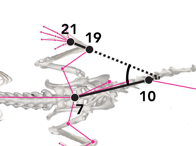
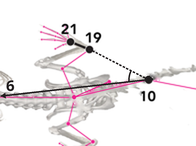
rewrite readouts README for the docs site, align angle docs with code
- docs-site wording; keep logo and title header
- angle vectors and signs described as computed in ANGLE_FEATURES
- add interpretation for plantar and postural readouts
- redraw paw-length thumbnails (heel to distal 3rd digit) and paw-angle
  thumbnails (body vector tail base to xyphoid)
- fixed thumbnail width so all postural images render at the same size

Changed region(s): [[0.0, 0.3288, 0.8265, 0.7945], [0.7041, 0.6301, 0.7347, 0.6575]]

diff --git a/README.md b/README.md
@@ -1,6 +1,4 @@
-<a id="readme-top"></a>
-
-<h1 align="center">BLACKBOX ANALYSIS READOUTS
+<h1 align="center">BLACKBOX POSTURAL AND WEIGHT-BEARING ANALYSIS
 <img src="readme_assets/images/BBB_logo.png" alt="Blackbox Bio Logo" height="30" align="absmiddle">
 </h1>
 
@@ -13,44 +11,26 @@
 </p>
 
 ***
-<!-- TABLE OF CONTENTS -->
-<details open>
-  <summary>Table of Contents</summary>
-  <ol>
-    <li><a href="#overview">Overview</a></li>
-    <li><a href="#analysis-pipeline">Analysis Pipeline</a></li>
-    <li><a href="#deeplabcut-body-part-labels">DeepLabCut Body Part Labels</a></li>
-    <li><a href="#global-readouts">Global Readouts</a></li>
-    <li><a href="#behavioral-readouts">Behavioral Readouts</a></li>
-    <li><a href="#anatomical-readouts--definitions">Anatomical Readouts & Definitions</a></li>
-    <li><a href="#behavioral-contexts">Behavioral contexts</a></li>
-    <li><a href="#plantar-readouts">Plantar Readouts</a></li>
-    <li><a href="#postural-readouts">Postural Readouts</a></li>
-    <li><a href="#tracking-quality-readouts">Tracking Quality Readouts</a></li>
-  </ol>
-</details>
 
-***
+When Palmreader analyzes an experiment, it writes a summary spreadsheet (`summary.csv`) with one row per recording, or per time bin when binning is used. This page defines every column in that spreadsheet: what is measured, which body part labels it uses, and how it is calculated. Readout names on this page match the column headers exactly.
 
-## Overview
+For setting up the Blackbox and recording experiments, see the Blackbox Operating Manual.
 
-This repository contains the analysis code that Palmreader runs on Blackbox recordings, and this document defines every readout it produces. Readout names below match the column headers of the summary spreadsheet. For operating the Blackbox instrument and recording experiments, see the Blackbox Operating Manual.
+> **NOTE:** New readouts are added regularly. If your summary contains a column that is not listed here, it was added in a newer Palmreader version than this page describes.
 
-New behavioral outputs are frequently added. Below is a non-exhaustive list of DeepLabCut pose labels and behavioral readouts that can be generated from Palmreader.
+## About the Analysis
 
-<p align="right">(<a href="#readme-top">back to top</a>)</p>
+Palmreader analyzes each recording in three steps:
 
-## Analysis Pipeline
+1. **Pose tracking.** DeepLabCut labels the animal's body parts in every frame of the transmitted-light (`TRANS`) video. See [Body Part Labels](#body-part-labels).
+2. **Feature extraction.** Palmreader combines the body part labels with the Intellitouch™ (`FTIR`) video to compute per-frame features: paw luminance, print size and pressure index, distances and angles between body parts, and behavior classifications. Per-frame features are saved for each recording in `features.h5`.
+3. **Summary.** The per-frame features are averaged, summed or counted over the recording (or time bin) to produce one row of `summary.csv`.
 
-Each recording is analyzed in three steps:
+Relative and ratio readouts are reported with 4 decimal places. All other readouts are reported with 2 decimal places.
 
-1. **Pose tracking:** DeepLabCut labels the body parts of the animal in every frame of the transmitted-light ("TRANS") video (see [DeepLabCut Body Part Labels](#deeplabcut-body-part-labels)).
-2. **Feature extraction:** per-frame features are computed from the pose labels and the Intellitouch™ ("FTIR") video, including paw luminance, print size and pressure index, body part distances and angles, and per-frame behavior classifications. These are saved for each recording in `features.h5`.
-3. **Summary:** per-frame features are summarized over each recording, or each time bin, into one row of the summary spreadsheet (`summary.csv`).
+## Body Part Labels
 
-<p align="right">(<a href="#readme-top">back to top</a>)</p>
-
-## DeepLabCut Body Part Labels
+Palmreader tracks 57 body part labels. The numbers in parentheses throughout this page refer to the label numbers below.
 
 | Skeleton | Rodent |
 |---|---|
@@ -96,171 +76,150 @@ Each recording is analyzed in three steps:
 | 28 | RFP distal 3rd digit | 57 | LHP distal 5th digit |
 | 29 | RFP distal 4th digit | | |
 
-To generate body part labels, Palmreader uses DeepLabCut (version 3.0.2)<sup>1,2</sup>, trained by labeling video frames of Blackbox-generated videos of mice and rats of various strains and colors. **When publishing Blackbox data scored using the Palmreader software suite, please cite the following source literature describing DeepLabCut<sup>1</sup> and the DLC Python package<sup>2</sup>:**
+The labels are generated with DeepLabCut (version 3.0.2), trained on Blackbox recordings of mice and rats of various strains and coat colors.
 
-1. Mathis A, et al.., Nature Neuroscience. 2018 doi: 10.1038/s41593-018-0209-y
-2. Nath T, Mathis A, et al., Nature Protocols. 2019 doi: 10.1038/s41596-019-0176-0
+> **NOTE:** When you publish Blackbox data analyzed with Palmreader, please cite DeepLabCut and the DeepLabCut Python package:
+>
+> 1. Mathis A, et al. Nature Neuroscience. 2018. doi: 10.1038/s41593-018-0209-y
+> 2. Nath T, Mathis A, et al. Nature Protocols. 2019. doi: 10.1038/s41596-019-0176-0
 
-<p align="right">(<a href="#readme-top">back to top</a>)</p>
+## Recording Readouts
 
-## Global Readouts
+**`total recording_time (min)`** is the length of the analyzed recording, starting from the first frame in which the animal is detected.
 
-**total recording_time (min)** is the duration of the recording analyzed, starting from the first frame in which the animal is detected.
+**`PV: bin start-end (min)`** is the time window of the recording that the row summarizes.
 
-**PV: bin start-end (min)** is the time window within the recording that each summary row is calculated from.
+**`bin duration (min)`** is the length of that time window.
 
-**bin duration (min)** is the total duration (in minutes) for the recording that each of the summary readout rows is calculated from.
+**`distance_traveled (pixel)`** is the total distance the animal moves: the sum of all frame-to-frame changes in the position of the body centroid. The body centroid is the average position of the sacrum (7), xyphoid (6), sternal notch (5), neck (4), left and right femur (16, 17) and left and right elbow (12, 13), weighted by tracking confidence.
 
-**distance_traveled (pixel)** represents the total linear distance moved by the animal. It is calculated by summing all frame-to-frame changes in location of the animal's body centroid across all video frames. The body centroid is the tracking-confidence-weighted average position of the sacrum (7), xyphoid (6), sternal notch (5), neck (4), left and right femur (16, 17) and left and right elbow (12, 13) labels.
+> **NOTE:** For mouse recordings on Blackbox R1, Camera A, 1 pixel ≈ 0.3 mm.
 
-Distance unit conversion calculator: (Blackbox R1, Camera A, mouse recording): 1 pixel = 0.3 mm
+**`time_spent_in_center (seconds)`** is the time the body centroid spends in the center square of a 3 × 3 grid over the field of view.
 
-**time_spent_in_center (seconds)** is the time the body centroid spends in the center square of a 3 x 3 grid dividing the field of view.
+## Behavior Readouts
 
-<p align="right">(<a href="#readme-top">back to top</a>)</p>
+Palmreader classifies every frame into the behaviors below using the body part labels. Each behavior is reported as time spent. Locomotion and not moving are also used as behavioral contexts for the plantar readouts (see [Behavioral Contexts](#behavioral-contexts)).
 
-## Behavioral Readouts
+All thresholds are defined at 45 frames per second and scaled automatically for other frame rates.
 
-Palmreader classifies each video frame into the behaviors below, using the DeepLabCut body part labels. These classifications are reported as time spent, and are also used as the behavioral contexts for the plantar readouts (see [Behavioral contexts](#behavioral-contexts)).
+**`time_spent_locomotion (seconds)`** is the time the animal spends walking. A frame counts as locomotion when the body centroid is more than 20 pixels from its average position over the preceding 0.5 seconds, and the animal stays above this threshold for at least 1 second.
 
-**time_spent_locomotion (seconds)**
-The time the animal spends walking. A frame is classified as locomotion when the body centroid is more than 20 pixels from its average location over the preceding 0.5 seconds (threshold defined at 45 frames per second and scaled for other frame rates), and the animal stays above this threshold for at least 1 second.
+**`time_spent_not_moving (seconds)`** is the time the animal spends still. A frame counts as not moving when the sacrum (7), xyphoid (6), sternal notch (5), neck (4), nose (1) and all four paws (14, 15, 20, 21) each move less than 0.5 pixels per frame, for at least 0.5 seconds.
 
-**time_spent_not_moving (seconds)**
-The time the animal spends still. A frame is classified as not moving when all of the following labels move less than 0.5 pixels per frame (defined at 45 frames per second and scaled for other frame rates): sacrum (7), xyphoid (6), sternal notch (5), neck (4), nose (1) and all four paws (14, 15, 20, 21). The animal must stay still for at least 0.5 seconds.
-
-**time_spent_left_turn (seconds)** and **time_spent_right_turn (seconds)**
-The time the animal spends turning its body to the left or right. A turn is detected when the body axis (from tail base (10) to nose (1)) rotates faster than 45 degrees per second for at least 0.4 seconds.
-
-<p align="right">(<a href="#readme-top">back to top</a>)</p>
-
-## Anatomical Readouts & Definitions
-
-**Paw:**
-The four paws are named [LHP: left hindpaw, RHP: right hindpaw, LFP: left forepaw, and RFP: right forepaw] according to their anatomical positions.
-
-**Paw print size:**
-The paw print size (pixel area) measures the area of the contact of a given paw in each time frame. The pixel area is the number of pixels in the FTIR signal induced by a given paw above a pixel intensity threshold.
-
-**Paw luminance:**
-The paw luminance (pixel intensity) measures the sum of all pixel intensity signals induced by a given paw in each time frame.
-
-**Pressure Index:**
-The paw pressure index (pixel intensity/area) measures the "pressure" of a given paw in each time frame, calculated as the paw luminance divided by the paw print size.
-
-> **Formulary for luminance readout labels (below):**
-> `{paw}` is a placeholder that can take one of the four paws (e.g., LHP for left hind paw).
-> `{measure}` can take one of the three measures [print_size, luminance, pressure-index].
-> `{context}` can take one of the behavioral contexts [none (whole recording), locomoting, not_moving]; see [Behavioral contexts](#behavioral-contexts).
-
-**Average {paw} {measure}:**
-The average {measure} of each {paw} across the time. Per-paw averages are not reported as separate readouts; they can be recovered as the overall {measure} multiplied by the relative {paw} {measure}.
-
-**Overall {measure}:**
-The overall {measure} is the sum of the average {measure} of all four paws.
-
-**Relative {paw} {measure}:**
-The average {measure} of each {paw} normalized by the overall {measure}. The four relative values of a {measure} sum to 1.
-
-- **Ratio {paw 1} {paw 2} {measure}:**
-  Ratios are calculated from averages: the average {paw 1} {measure} divided by the average {paw 2} {measure}. Hind paw ratios are reported in both directions, right over left (r/l) and left over right (l/r), so the injured paw can be placed in the numerator.
-- For front-to-hind ratios, the {front} is the sum of both front paws, and the {hind} is the sum of both hind paws.
-- For standing measures, the animal is classified as standing if neither of the animal's front paws are contacting the floor.
-- **{paw} lifted time:**
-  The lifted time (seconds) of each {paw} is calculated by summing up the time when the given {paw} is not contacting the floor.
-
-Relative and ratio readouts are reported with 4 decimal places; all other readouts are reported with 2 decimal places.
-
-<p align="right">(<a href="#readme-top">back to top</a>)</p>
-
-## Behavioral contexts
-
-In addition to the whole recording, the overall, relative and hind paw ratio readouts are also calculated within two behavioral contexts, using only the video frames classified as that behavior (see [Behavioral Readouts](#behavioral-readouts)):
-
-- **locomoting:** frames in which the animal is walking. Readout names contain `_locomoting_`.
-- **not_moving:** frames in which the animal is still. Readout names contain `_not_moving_`.
-
-Weight bearing during locomotion and at rest can differ after injury. For example, an animal may guard an injured paw while resting but load it more evenly while walking. If an animal spends little or no time in a behavior during a recording or time bin, readouts for that context are based on few frames and are less reliable, or are left empty if the behavior does not occur.
-
-<p align="right">(<a href="#readme-top">back to top</a>)</p>
+**`time_spent_left_turn (seconds)`** and **`time_spent_right_turn (seconds)`** are the time the animal spends turning its body left or right. A turn is detected when the body axis, from tail base (10) to nose (1), rotates faster than 45 degrees per second for at least 0.4 seconds.
 
 ## Plantar Readouts
 
-**average_overall_print_size (pixel area)** represents the total paw contact area of the animal: the sum of the average print size of all four paws across all timepoints.
+Plantar readouts measure how each paw contacts the floor, using the Intellitouch™ (FTIR) signal. They are the main readouts for weight bearing and paw guarding.
 
-**average_overall_luminance (pixel intensity)** is the sum of the average luminance of all four paws.
+### Plantar Measures
 
-**average_overall_pressure-index (pixel intensity/area)** is the sum of the average pressure index of all four paws.
+Each plantar readout is based on one of three per-frame measures, computed for each paw:
 
-The plantar readouts below are reported for each {measure} [print_size, luminance, pressure-index]. Units: print_size in pixel area, luminance in pixel intensity, pressure-index in pixel intensity/area.
-
-| Readout | Contexts reported | Description |
+| Measure | Unit | Definition |
 |---|---|---|
-| average_overall_{measure} | whole recording, locomoting, not_moving | Sum of the average {measure} of all four paws |
-| relative_{paw}_{measure} (ratio) | whole recording, locomoting, not_moving | Average {measure} of {paw} divided by the overall {measure} |
-| average_hind_paw_{measure}_ratio (r/l) and (l/r) | whole recording, standing, locomoting, not_moving | Average right hind paw {measure} divided by the average left hind paw {measure} (r/l), or the reverse (l/r) |
-| average_front_to_hind_paw_{measure}_ratio | whole recording | Sum of the average front paw {measure} divided by the sum of the average hind paw {measure} |
+| `print_size` | pixel area | Contact area: the number of FTIR pixels from the paw above the intensity threshold |
+| `luminance` | pixel intensity | Total contact signal: the sum of the intensity of all FTIR pixels from the paw |
+| `pressure-index` | pixel intensity/area | Contact signal per unit area: `luminance` divided by `print_size` |
 
-Context-specific readouts insert the context name after `average_` or `relative_`. For example:
+`luminance` increases both with how hard the paw presses and with how much of the paw touches the floor. `pressure-index` removes the effect of contact area. A lifted paw contributes 0 to `print_size` and `luminance` in that frame.
 
-- average_overall_luminance (pixel intensity)
-- average_not_moving_overall_luminance (pixel intensity)
-- relative_LHP_luminance (ratio)
-- relative_locomoting_LHP_luminance (ratio)
-- average_hind_paw_luminance_ratio (l/r)
-- average_standing_hind_paw_luminance_ratio (l/r)
-- average_locomoting_hind_paw_luminance_ratio (l/r)
-- average_not_moving_hind_paw_luminance_ratio (l/r)
+The paws are named by anatomical position: **LHP** (left hind paw), **RHP** (right hind paw), **LFP** (left fore paw) and **RFP** (right fore paw).
 
-Paw lifted time readouts:
+### Readout Definitions
 
-- LHP_paw_lifted_time (seconds)
-- RHP_paw_lifted_time (seconds)
-- LFP_paw_lifted_time (seconds)
-- RFP_paw_lifted_time (seconds)
-- both_front_paws_lifted (seconds)
+In the readout names below, `{measure}` is one of the three measures, `{paw}` is one of the four paws, and the unit follows the measure.
 
-<p align="right">(<a href="#readme-top">back to top</a>)</p>
+**`average_overall_{measure}`** is the sum of the average `{measure}` of all four paws. For example, `average_overall_print_size (pixel area)` is the animal's total paw contact area.
+
+**`relative_{paw}_{measure} (ratio)`** is the share of the overall `{measure}` carried by one paw: the paw's average `{measure}` divided by `average_overall_{measure}`. The four relative values of a measure sum to 1.
+
+**`average_hind_paw_{measure}_ratio (r/l)`** and **`(l/r)`** compare the two hind paws: the average RHP `{measure}` divided by the average LHP `{measure}` (r/l), or the reverse (l/r). Both directions are reported so you can always put the injured paw in the numerator.
+
+**`average_front_to_hind_paw_{measure}_ratio`** is the summed average `{measure}` of both front paws divided by the summed average of both hind paws.
+
+**`average_standing_hind_paw_{measure}_ratio (r/l)`** and **`(l/r)`** are the hind paw ratios calculated only over frames in which the animal is standing on its hind paws, that is, neither front paw is touching the floor.
+
+> **NOTE:** All ratios are ratios of averages: each paw is averaged over the frames first, then the averages are divided. Per-paw averages are not reported as separate columns. To recover one, multiply the overall readout by the paw's relative readout.
+
+### Paw Lifted Time
+
+**`{paw}_paw_lifted_time (seconds)`** is the total time the paw is not touching the floor. It is reported for `LHP`, `RHP`, `LFP` and `RFP`.
+
+**`both_front_paws_lifted (seconds)`** is the total time neither front paw is touching the floor.
+
+### Interpreting Plantar Readouts
+
+- **Weight bearing on an injured paw.** Use the injured paw's `relative_{paw}_{measure} (ratio)`, or the hind paw ratio with the injured paw on top (for a left injury, `(l/r)`). A hind paw ratio below 1, or a lower relative value than in controls or at baseline, means the animal puts less weight on the injured paw. Ratios are easier to compare between animals than raw `luminance`, which also depends on body weight.
+- **`luminance` or `pressure-index`.** `luminance` drops both when the animal presses more lightly and when it touches the floor with less of the paw. `pressure-index` follows only how hard it presses, and can be less noisy between recordings.
+- **Guarding.** A longer `{paw}_paw_lifted_time (seconds)` for the injured paw than for the opposite paw indicates the animal is keeping the injured paw off the floor.
+- **Rearing.** `both_front_paws_lifted (seconds)` is the time spent rearing or standing on the hind paws.
+
+### Behavioral Contexts
+
+The overall, relative and hind paw ratio readouts are calculated over the whole recording and again within two behavioral contexts, using only the frames classified as that behavior (see [Behavior Readouts](#behavior-readouts)). The context name follows `average_` or `relative_` in the readout name:
+
+| Context | Frames used | Example readouts |
+|---|---|---|
+| whole recording | all frames | `average_overall_luminance (pixel intensity)`<br>`relative_LHP_luminance (ratio)`<br>`average_hind_paw_luminance_ratio (l/r)` |
+| locomoting | frames in which the animal is walking | `average_locomoting_overall_luminance (pixel intensity)`<br>`relative_locomoting_LHP_luminance (ratio)`<br>`average_locomoting_hind_paw_luminance_ratio (l/r)` |
+| not moving | frames in which the animal is still | `average_not_moving_overall_luminance (pixel intensity)`<br>`relative_not_moving_LHP_luminance (ratio)`<br>`average_not_moving_hind_paw_luminance_ratio (l/r)` |
+
+Weight bearing while walking and while at rest can change differently after an injury. For example, an animal may guard an injured paw while resting but load it more evenly while walking.
+
+> **NOTE:** Context readouts are only as reliable as the number of frames behind them. If an animal spends little time in a behavior during a recording or time bin, its readouts for that context are based on few frames. If the behavior does not occur at all, those readouts are left empty. Check `time_spent_locomotion (seconds)` and `time_spent_not_moving (seconds)` before interpreting context readouts.
 
 ## Postural Readouts
 
-| | |
-|---|---|
-| ![femoral_distance](readme_assets/images/readouts/femoral_distance.png) | **femur_width** (pixel)<br>The average pixel distance between the left femur (17) and right femur (16) across all time points. |
-| ![heel_distance](readme_assets/images/readouts/heel_distance.png) | **heel_distance** (pixel)<br>The average pixel distance between the left (19) and right (18) heels across all time points. |
-| ![hind_paws_distance](readme_assets/images/readouts/hind_paws_distance.png) | **hind_paws_distance** (pixel)<br>The average pixel distance between the left (21) and right (20) hind paws across all timepoints. |
-| ![elbow_distance](readme_assets/images/readouts/elbow_distance.png) | **elbow_width** (pixel)<br>The average pixel distance between the left (13) and right (12) elbow joints across all timepoints. |
-| ![front_paws_distance](readme_assets/images/readouts/front_paws_distance.png) | **front_paws_distance** (pixel)<br>The average pixel distance between the left (15) and right (14) front paws across all timepoints. |
-| ![cheek_distance](readme_assets/images/readouts/cheek_distance.png) | **cheek_distance** (pixel)<br>The average pixel distance between the left (3) and right (2) cheeks across all timepoints. |
-| ![tailbase_tailtip_distance](readme_assets/images/readouts/tailbase_tailtip_distance.png) | **tailbase_tailtip_distance** (pixel)<br>The average pixel distance between the tailbase (10) and the tailtip (11) across all timepoints. |
-| ![sacral_tailbase_distance](readme_assets/images/readouts/sacral_tailbase_distance.png) | **sacrum_tailbase_distance** (pixel)<br>The average pixel distance between the sacrum (7) and the tailbase (10) labels across all timepoints. |
-| ![sacral_xyphoid_distance](readme_assets/images/readouts/sacral_xyphoid_distance.png) | **sacrum_xyphoid_distance** (pixel)<br>The average pixel distance between the sacrum (7) and the xyphoid process (caudal sternum) (6) across all timepoints. |
-| ![suprasternal_xyphoid_distance](readme_assets/images/readouts/suprasternal_xyphoid_distance.png) | **xyphoid_sternal-notch_distance** (pixel)<br>The average pixel distance between the suprasternal notch (5) and the xyphoid process (6) (the rostral and caudal ends of sternum, respectively) across all timepoints. |
-| ![suprasternal_neck_distance](readme_assets/images/readouts/suprasternal_neck_distance.png) | **sternal-notch_neck_distance** (pixel)<br>The average pixel distance between the suprasternal notch (5) and the neck (4) midpoint (approximating the position of the thyroid cartilage) across all timepoints. |
-| ![neck_snout_distance](readme_assets/images/readouts/neck_snout_distance.png) | **neck_snout_distance** (pixel)<br>The average pixel distance between the midpoint of the neck (4) (i.e., thyroid cartilage) and the tip of the snout across all timepoints. |
+Postural readouts describe the animal's body shape using distances and angles between body part labels. Each is averaged over all frames.
 
-The following angle readouts represent the orientation of the two vectors defined by the centerline of the corresponding structures. Each angle readout is reported as the average across all timepoints, and as a separate `{angle} standard deviation (degree)` readout giving the standard deviation of the angle across all timepoints.
+### Distances
 
 | | |
 |---|---|
-| ![chest_head_angle](readme_assets/images/readouts/chest_head_angle.png) | **chest_head_angle** (degree)<br>Where chest is a vector formed along the sternal centerline from suprasternal (5) to xyphoid (6), and head is a vector between the neck (4) and snout (1), the chest_head angle is the inclination that forms at their intersection. Leftward (counterclockwise movement) of the head produces a positive value, while a rightward (clockwise) turn of the head results in a negative value. |
-| ![hip_chest_angle](readme_assets/images/readouts/hip_chest_angle.png) | **hip_chest_angle** (degree)<br>Here, hip is a vector formed by the sacrum (7) and tailbase (10) labels, and chest is the sternal centerline vector formed between suprasternal (5) and xyphoid (6). The intersection of these vectors forms the hip_chest angle. Turning of the chest leftward (counterclockwise), produces a positive hip_chest angle value, and rightward turn of the chest produces a negative value. |
-| ![tail_hip_angle](readme_assets/images/readouts/tail_hip_angle.png) | **tail_hip_angle** (degree)<br>For this angle, tail is defined by a vector between the tailbase (10) and tailtip (11) labels, and hip is a vector formed by the sacrum (7) and tailbase (10) labels. Turning of the tail leftward (counterclockwise), produces a positive tail_hip angle value, and rightward turn of the tail produces a negative value. |
-| ![LHP_paw_angle](readme_assets/images/readouts/LHP_paw_angle.png) | **LHP_paw-angle** (degree)<br>This angle is defined by the intersection of a vector from tailbase (10) to xyphoid (6), and a vector from left heel (19) to the left hindpaw centroid (21). Turning of the left hindpaw leftward (counterclockwise), produces a positive LHP paw angle value, and rightward turn of the paw produces a negative value. |
-| ![RHP_paw_angle](readme_assets/images/readouts/RHP_paw_angle.png) | **RHP_paw-angle** (degree)<br>This angle is defined by the intersection of a vector from tailbase (10) to xyphoid (6), and a vector from right heel (18) to the right hindpaw centroid (20). Turning of the right hindpaw rightward (clockwise), produces a positive RHP paw angle value, and leftward turn of the paw produces a negative value. |
-| ![sacral_tailbase_LHP_angle](readme_assets/images/readouts/sacral_tailbase_LHP_angle.png) | **LHP_limb-angle** (degree)<br>This angle is defined by the intersection of a vector from tailbase (10) to sacrum (7), and a vector from tailbase (10) to the left hindpaw centroid (21). |
-| ![sacral_tailbase_RHP_angle](readme_assets/images/readouts/sacral_tailbase_RHP_angle.png) | **RHP_limb-angle** (degree)<br>This angle is defined by the intersection of a vector from tailbase (10) to sacrum (7), and a vector from tailbase (10) to the right hindpaw centroid (20). |
-| ![LHP_toe_spread](readme_assets/images/readouts/LHP_toe_spread.png) | **LHP_toe-spread** (pixel)<br>This readout is the distance between the LHP distal 1st digit (53) to LHP distal 5th digit (57). |
-| ![RHP_toe_spread](readme_assets/images/readouts/RHP_toe_spread.png) | **RHP_toe-spread** (pixel)<br>This value represents the distance between the RHP distal 1st digit (43) to RHP distal 5th digit (47). |
-| ![left_hind_paw_length](readme_assets/images/readouts/left_hind_paw_length.png) | **LHP_paw-length** (pixel)<br>This measurement is the distance between the left heel (19) and the LHP distal 3rd digit (55). A change in paw length occurs upon dorsiflexion of the paw, which reduces the apparent distance between the heel (19) and the distal 3rd digit (55), such as when the heel is lifted while the toes are stationary against the glass. |
-| ![right_hind_paw_length](readme_assets/images/readouts/right_hind_paw_length.png) | **RHP_paw-length** (pixel)<br>This measurement is the distance between the right heel (18) and the RHP distal 3rd digit (45). A change in paw length occurs upon dorsiflexion of the paw, which reduces the apparent distance between the heel (18) and the distal 3rd digit (45), such as when the heel is lifted while the toes are stationary against the glass. |
+| <img src="readme_assets/images/readouts/femoral_distance.png" alt="femur_width" width="240"> | **`femur_width`** (pixel)<br>Distance between the left (17) and right (16) femur. |
+| <img src="readme_assets/images/readouts/heel_distance.png" alt="heel_distance" width="240"> | **`heel_distance`** (pixel)<br>Distance between the left (19) and right (18) heels. |
+| <img src="readme_assets/images/readouts/hind_paws_distance.png" alt="hind_paws_distance" width="240"> | **`hind_paws_distance`** (pixel)<br>Distance between the left (21) and right (20) hind paws:<br>the hind paw stance width. |
+| <img src="readme_assets/images/readouts/elbow_distance.png" alt="elbow_width" width="240"> | **`elbow_width`** (pixel)<br>Distance between the left (13) and right (12) elbows. |
+| <img src="readme_assets/images/readouts/front_paws_distance.png" alt="front_paws_distance" width="240"> | **`front_paws_distance`** (pixel)<br>Distance between the left (15) and right (14) front paws:<br>the front paw stance width. |
+| <img src="readme_assets/images/readouts/cheek_distance.png" alt="cheek_distance" width="240"> | **`cheek_distance`** (pixel)<br>Distance between the left (3) and right (2) cheeks. |
+| <img src="readme_assets/images/readouts/tailbase_tailtip_distance.png" alt="tailbase_tailtip_distance" width="240"> | **`tailbase_tailtip_distance`** (pixel)<br>Distance between the tail base (10) and tail tip (11).<br>A curled tail gives a shorter distance. |
+| <img src="readme_assets/images/readouts/sacral_tailbase_distance.png" alt="sacrum_tailbase_distance" width="240"> | **`sacrum_tailbase_distance`** (pixel)<br>Distance between the sacrum (7) and tail base (10). |
+| <img src="readme_assets/images/readouts/sacral_xyphoid_distance.png" alt="sacrum_xyphoid_distance" width="240"> | **`sacrum_xyphoid_distance`** (pixel)<br>Distance between the sacrum (7) and the xyphoid process,<br>the caudal end of the sternum (6).<br>A hunched or curled body gives a shorter distance. |
+| <img src="readme_assets/images/readouts/suprasternal_xyphoid_distance.png" alt="xyphoid_sternal-notch_distance" width="240"> | **`xyphoid_sternal-notch_distance`** (pixel)<br>Distance between the suprasternal notch (5) and the<br>xyphoid process (6): the length of the sternum. |
+| <img src="readme_assets/images/readouts/suprasternal_neck_distance.png" alt="sternal-notch_neck_distance" width="240"> | **`sternal-notch_neck_distance`** (pixel)<br>Distance between the suprasternal notch (5) and the neck<br>midpoint (4), which approximates the position of<br>the thyroid cartilage. |
+| <img src="readme_assets/images/readouts/neck_snout_distance.png" alt="neck_snout_distance" width="240"> | **`neck_snout_distance`** (pixel)<br>Distance between the neck midpoint (4) and the tip of the snout (1). |
 
-<p align="right">(<a href="#readme-top">back to top</a>)</p>
+### Angles
+
+Each angle is formed by two vectors along the centerlines of the named body segments. Each angle is reported as the average over all frames, plus a matching `{angle} standard deviation (degree)` readout that shows how much the angle varies. Left and right are the animal's own left and right.
+
+| | |
+|---|---|
+| <img src="readme_assets/images/readouts/chest_head_angle.png" alt="chest_head_angle" width="240"> | **`chest_head_angle`** (degree)<br>Head vector: neck (4) → snout (1)<br>Chest vector: xyphoid (6) → suprasternal notch (5)<br>0 when the head is in line with the chest.<br>Head turned to the animal's right: positive; to the left: negative. |
+| <img src="readme_assets/images/readouts/hip_chest_angle.png" alt="hip_chest_angle" width="240"> | **`hip_chest_angle`** (degree)<br>Chest vector: xyphoid (6) → suprasternal notch (5)<br>Hip vector: tail base (10) → sacrum (7)<br>0 when the chest is in line with the hips.<br>Chest bent to the animal's right: positive; to the left: negative. |
+| <img src="readme_assets/images/readouts/tail_hip_angle.png" alt="tail_hip_angle" width="240"> | **`tail_hip_angle`** (degree)<br>Hip vector: tail base (10) → sacrum (7)<br>Tail vector: tail tip (11) → tail base (10)<br>0 when the tail is in line with the hips.<br>Tail tip swung to the animal's left: positive; to the right: negative. |
+| <img src="readme_assets/images/readouts/LHP_paw_angle.png" alt="LHP_paw-angle" width="240"> | **`LHP_paw-angle`** (degree)<br>Body vector: tail base (10) → xyphoid (6)<br>Paw vector: left heel (19) → left hind paw centroid (21)<br>Paw pointing outward, away from the body: positive.<br>A larger value means a more outward-pointing paw. |
+| <img src="readme_assets/images/readouts/RHP_paw_angle.png" alt="RHP_paw-angle" width="240"> | **`RHP_paw-angle`** (degree)<br>Body vector: tail base (10) → xyphoid (6)<br>Paw vector: right heel (18) → right hind paw centroid (20)<br>Paw pointing outward, away from the body: positive.<br>A larger value means a more outward-pointing paw. |
+| <img src="readme_assets/images/readouts/sacral_tailbase_LHP_angle.png" alt="LHP_limb-angle" width="240"> | **`LHP_limb-angle`** (degree)<br>Vector 1: tail base (10) → sacrum (7)<br>Vector 2: tail base (10) → left hind paw centroid (21)<br>A larger value means the paw is placed farther out<br>from the body midline. |
+| <img src="readme_assets/images/readouts/sacral_tailbase_RHP_angle.png" alt="RHP_limb-angle" width="240"> | **`RHP_limb-angle`** (degree)<br>Vector 1: tail base (10) → right hind paw centroid (20)<br>Vector 2: tail base (10) → sacrum (7)<br>A larger value means the paw is placed farther out<br>from the body midline. |
+
+> **NOTE:** The body angles (`chest_head_angle`, `hip_chest_angle` and `tail_hip_angle`) average close to 0 for an animal that bends equally to both sides. A mean that stays away from 0 means the animal consistently bends to one side. The standard deviation readouts show how much the animal bends side to side.
+
+### Paw Shape
+
+| | |
+|---|---|
+| <img src="readme_assets/images/readouts/LHP_toe_spread.png" alt="LHP_toe-spread" width="240"> | **`LHP_toe-spread`** (pixel)<br>Distance between LHP distal 1st digit (53)<br>and LHP distal 5th digit (57).<br>A smaller value means the toes are held closer together. |
+| <img src="readme_assets/images/readouts/RHP_toe_spread.png" alt="RHP_toe-spread" width="240"> | **`RHP_toe-spread`** (pixel)<br>Distance between RHP distal 1st digit (43)<br>and RHP distal 5th digit (47).<br>A smaller value means the toes are held closer together. |
+| <img src="readme_assets/images/readouts/left_hind_paw_length.png" alt="LHP_paw-length" width="240"> | **`LHP_paw-length`** (pixel)<br>Distance between the left heel (19) and LHP distal 3rd digit (55).<br>The paw looks shorter when the heel is lifted while the toes stay<br>on the floor, so a smaller value can mean the animal is avoiding<br>putting weight on the heel. |
+| <img src="readme_assets/images/readouts/right_hind_paw_length.png" alt="RHP_paw-length" width="240"> | **`RHP_paw-length`** (pixel)<br>Distance between the right heel (18) and RHP distal 3rd digit (45).<br>The paw looks shorter when the heel is lifted while the toes stay<br>on the floor, so a smaller value can mean the animal is avoiding<br>putting weight on the heel. |
 
 ## Tracking Quality Readouts
 
-**average_{paw}_tracking_likelihood** is the average DeepLabCut confidence (0 to 1) for the label of each {paw} across all timepoints. Low values indicate the paw was often hidden, poorly lit, or hard to identify, which can affect the accuracy of the plantar readouts for that paw.
+**`average_{paw}_tracking_likelihood`** is the average DeepLabCut confidence, from 0 to 1, for the paw's label across all frames. Low values mean the paw was often hidden, poorly lit or hard to identify, which makes that paw's plantar readouts less accurate.
 
-**paws_tracking_quality_control_flag** is set to 1 when the average tracking likelihood of either hind paw is below 0.4, or of either front paw is below 0.6, and is 0 otherwise. Recordings flagged with 1 should be reviewed (for example, by checking the labeled video) before their plantar readouts are interpreted.
+**`paws_tracking_quality_control_flag`** is 1 when the average tracking likelihood is below 0.4 for either hind paw or below 0.6 for either front paw, and 0 otherwise.
 
-<p align="right">(<a href="#readme-top">back to top</a>)</p>
+> **NOTE:** Review recordings flagged with 1, for example by watching the labeled video, before interpreting their plantar readouts.
